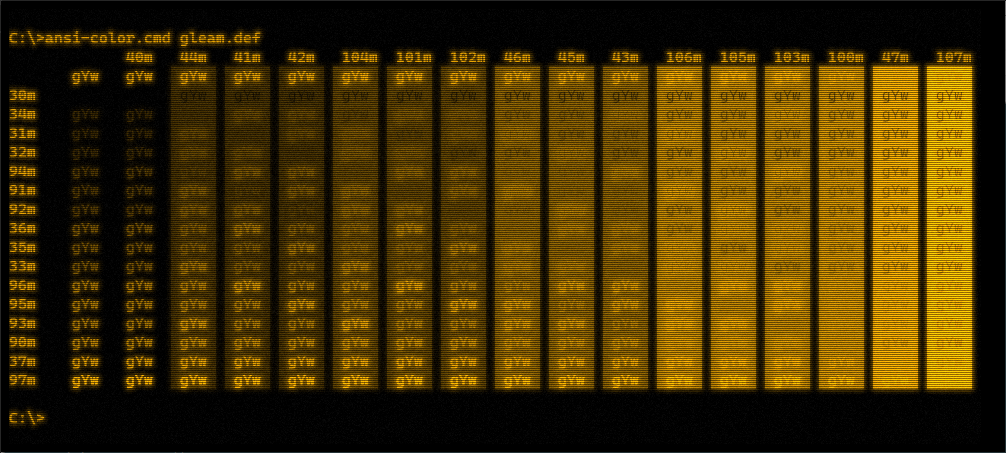
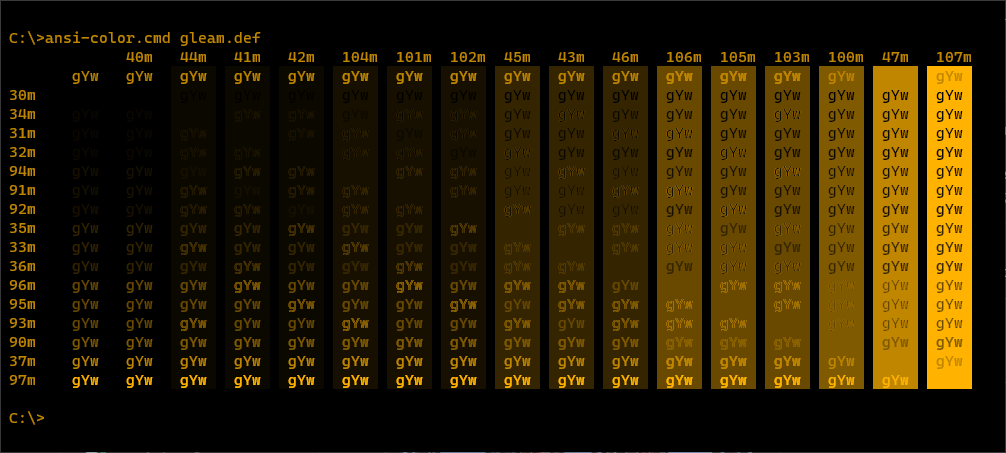
Blur wasn't crashing, but wasn't working Fixed and adjusted blur so that it now works. Everything works with everything all options can be used. Still has scanline from retro.hlsl, but that's all which remains and the result looks very clean. Blur isn't ideal with how it is implemented, but it doesn

diff --git a/README.md b/README.md
@@ -39,7 +39,7 @@ Shaders for the new Windows Terminal
 ### Preview
 |![crt1](.github/crt-1.png)|![crt1](.github/crt-2.png)|![crt1](.github/crt-3.png)|![crt4](.github/crt-4.png)|
 |---|---|---|---|
-|Default|Green Monochrome|Ember Monochrome|With Luminance, Grayscale, Tint, Grain, and Curve|
+|Default|Green Monochrome|Ember Monochrome|With Luminance, Grayscale, Tint, Grain, Refresh, Scanlines, Bloom, Blur, and Curve|
 
 ### Grayscale conversion
 |![crt vintage](.github/crt-vintage.png)|![crt default](.github/crt-default.png)|![crt intensity](.github/crt-intensity.png)|
@@ -63,21 +63,37 @@ This shader takes advantage of some of the techniques showcased in [Retro.hlsl](
 When using a monochorme tint, there should be some considerations made. The Vintage color scheme is probably the best choice for trying to capture a nostalgic feel. Other color schemes, while still being monochormatic will have different brightness levels which may not correspond with expectations. If ENABLE_GRAYSCALE is used, there are four different strategies, one of which should be selected. Intensity, Gleam, Luminance, and Luma are calculated using the formulas on this [Color-to-Grayscale](https://journals.plos.org/plosone/article?id=10.1371/journal.pone.0029740) paper. While there isn't a perfect conversion technique, and the results change considerably depending on the color scheme used, Luminance seems to provide the smoothest transitions using Vintage as the base. It is also recommended that the Windows Terminal [fontFace](https://docs.microsoft.com/en-us/windows/terminal/customize-settings/profile-appearance#font-face) and [antialiasingMode](https://docs.microsoft.com/en-us/windows/terminal/customize-settings/profile-advanced#text-antialiasing) settings are adjusted to improve readability as desired. Lastly, this is applying a pixel shader to the entire window. Depending on the system hardware and the size of the screen, this might be a very expensive shader to apply at max settings.
 
 ```c++
-// Settings
-#define GRAIN_INTENSITY 0.02
-#define TINT_COLOR float4(1, 0.7f, 0, 0)
-#define ENABLE_SCANLINES 1
-#define ENABLE_REFRESHLINE 1
-#define ENABLE_GRAIN 1
+// Options
 #define ENABLE_CURVE 1
+#define ENABLE_BLOOM 1
 #define ENABLE_BLUR 1
-#define ENABLE_TINT 1
 #define ENABLE_GRAYSCALE 1
+#define ENABLE_REFRESHLINE 1
+#define ENABLE_SCANLINES 1
+#define ENABLE_TINT 1
+#define ENABLE_GRAIN 1
+#define DEBUG 0
+
+// Settings - Bloom
+#define BLOOM_STRENGTH 0.8
+#define BLOOM_OFFSET 0.002	
+
+// Settings - Blur
+#define BLUR_MULTIPLIER 1.05
+#define BLUR_STRENGTH 0.3
+#define BLUR_OFFSET 0.003
+
+// Settings - Grayscale Strategies
 #define USE_INTENSITY 0
 #define USE_GLEAM 0
 #define USE_LUMINANCE 1
 #define USE_LUMA 0
-#define DEBUG 0
+
+// Settings - Tint
+#define TINT_COLOR float4(1, 0.7f, 0, 0)
+
+// Settings - Gain
+#define GRAIN_INTENSITY 0.02f
 ```
 
 ## [Transparent](./transparent.hlsl)
